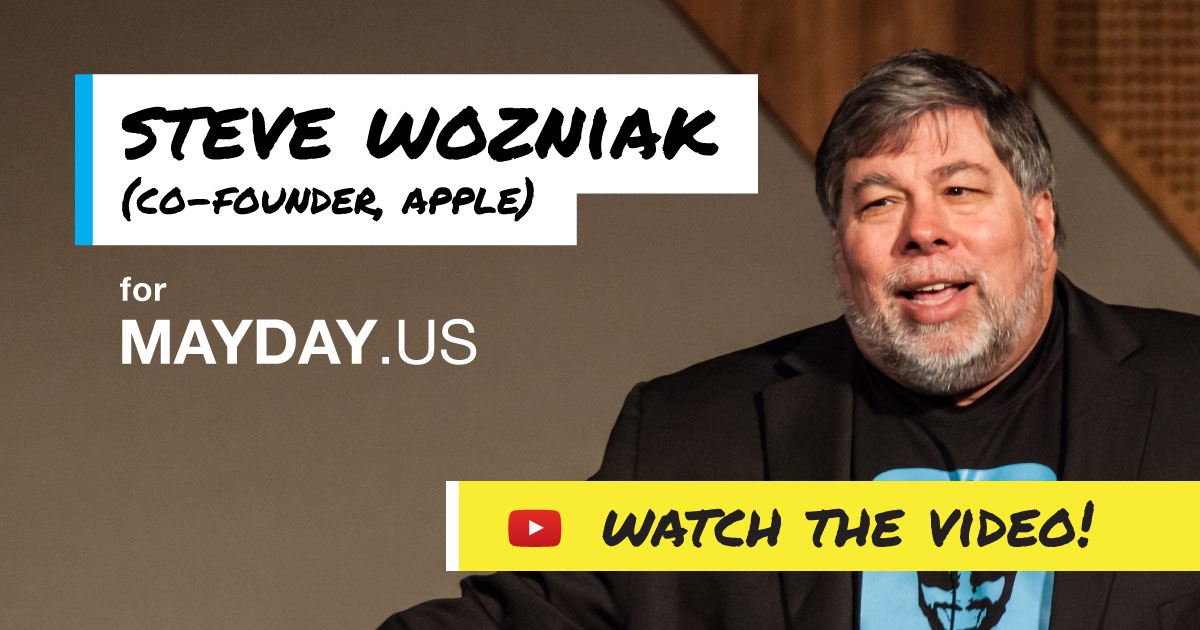
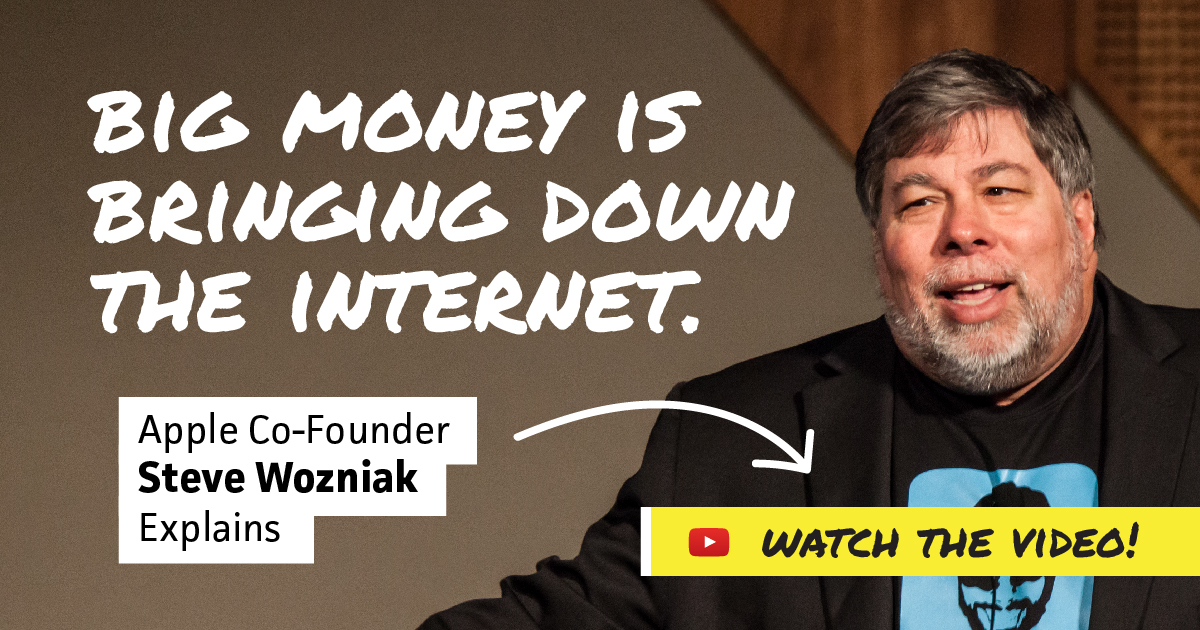
Updates to Woz page
Updating go:image

diff --git a/woz.html b/woz.html
@@ -4,8 +4,8 @@ title: Steve Wozniak Endorses MAYDAY!
 omit_title_suffix: true
 cssid: jgl
 og_image: https://mayday.us/images/OGwoz.jpg
-og_title: Joseph Gordon-Levitt Endorses MAYDAY!
-og_description: Join Steve Wozniak and support the MAYDAY movement.
+og_title: Apple Co-Founder Steve Wozniak Endorses MAYDAY!
+og_description: Join Woz and support the MAYDAY movement.
 twitter_image: https://mayday.us/images/OGwoz.jpg
 ---
 
